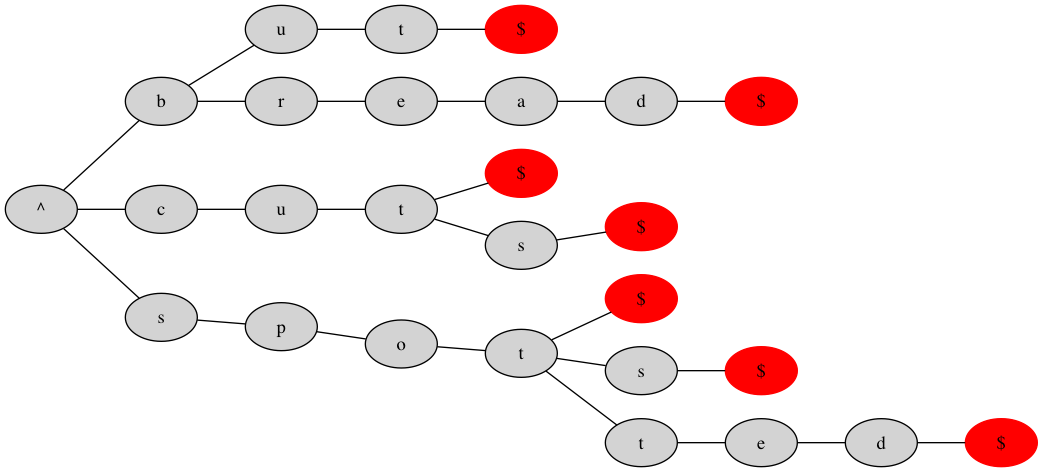
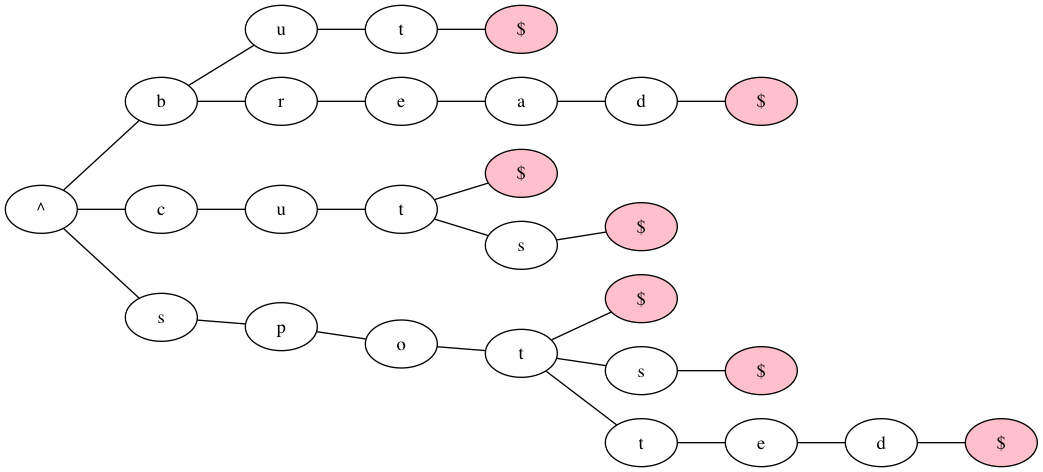
Improved graph styling

diff --git a/trie.py b/trie.py
@@ -15,7 +15,7 @@ class Node:
 
         if (letter != '^'):
             if (letter == '$'):
-                graph.add_node(last_key + letter, label = letter, color = 'red')
+                graph.add_node(last_key + letter, label = letter, style = 'filled', fillcolor = 'pink')
             else:
                 graph.add_node(last_key + letter, label = letter)
             graph.add_edge(last_key, last_key + letter)
@@ -40,8 +40,8 @@ class Node:
 class Trie:
     def __init__(self):
         self.root = Node()
-        self.graph = pgv.AGraph(direted=True)
-        self.graph.node_attr['style'] = 'filled'
+        self.graph = pgv.AGraph(directed=False)
+
 
     def __repr__(self):
         return str(self.root)
